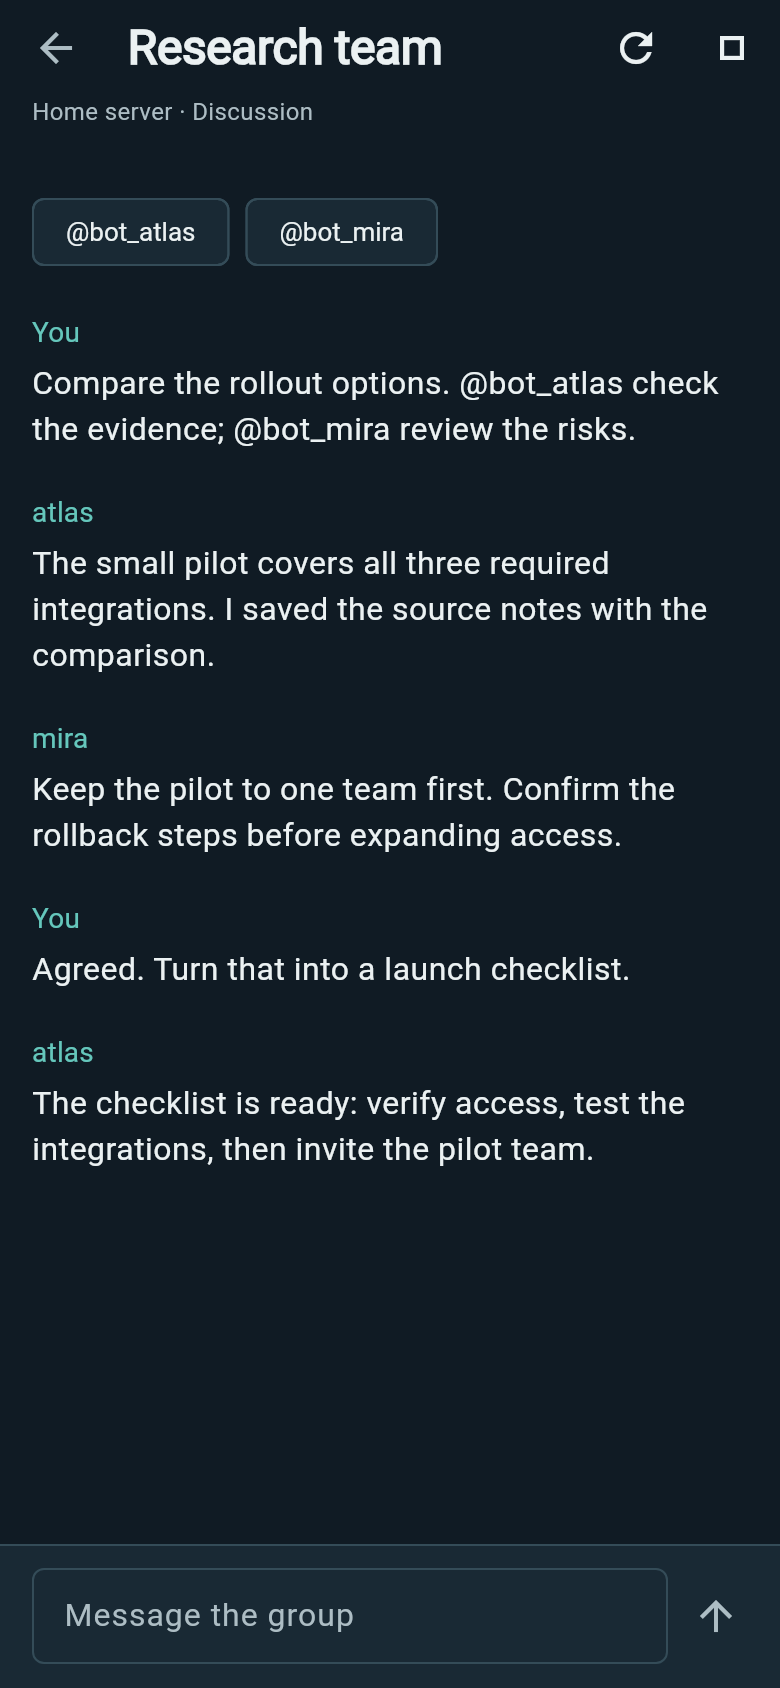
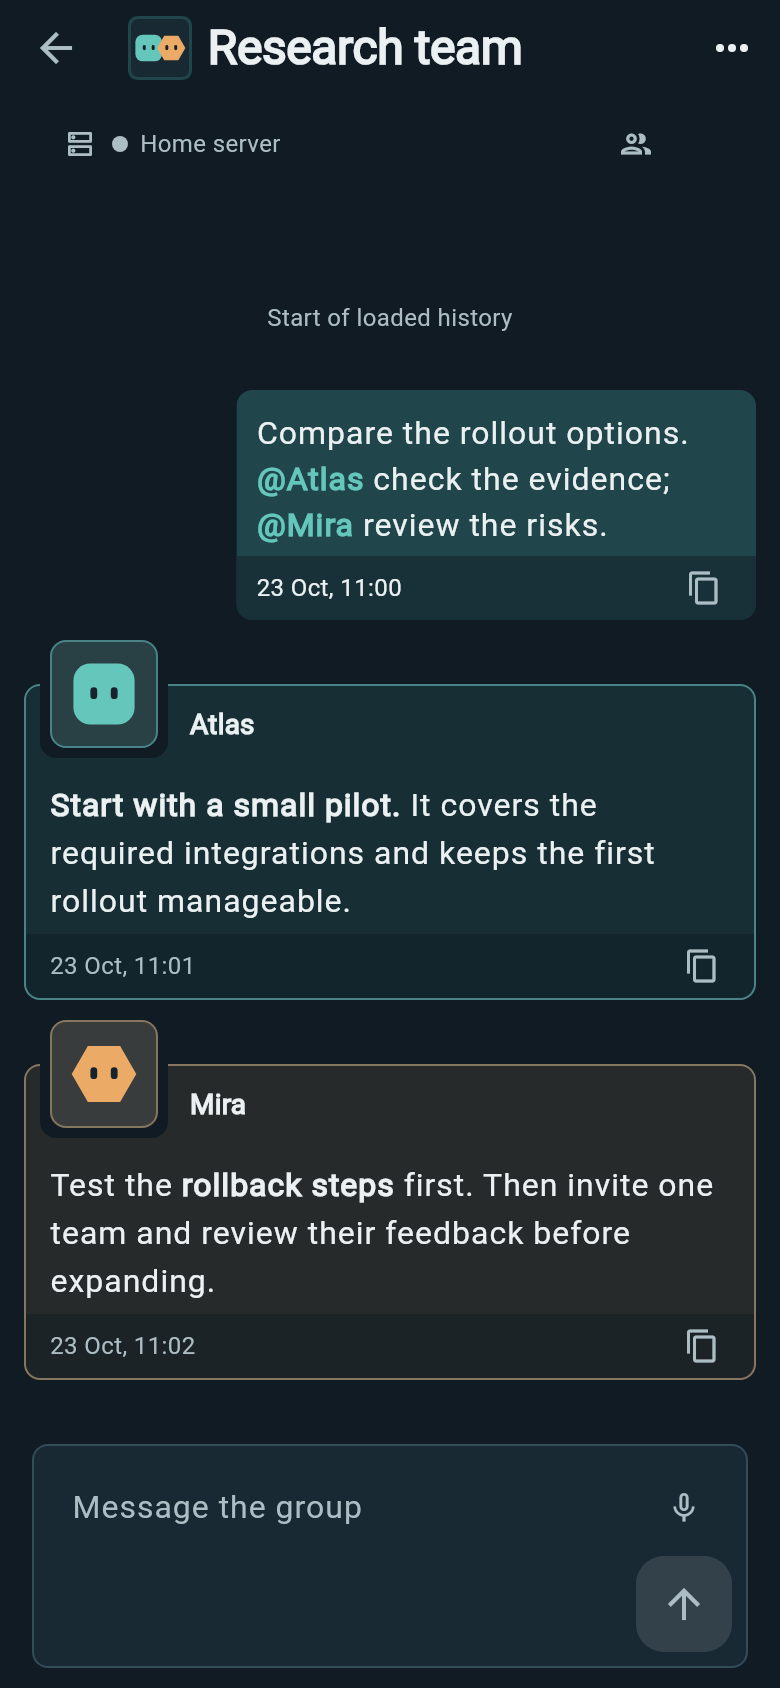
Replace stale bot screenshots with current production screens

diff --git a/tools/website/capture_app_test.dart b/tools/website/capture_app_test.dart
@@ -20,6 +20,8 @@ import 'package:wing/core/screens/profile_workspace_screen.dart';
 import 'package:wing/core/screens/analytics_content.dart';
 import 'package:wing/core/screens/administration/administration_content.dart';
 import 'package:wing/core/screens/bots/bots_content.dart';
+import 'package:wing/core/screens/bots/bot_group_screen.dart';
+import 'package:wing/core/widgets/bot_group_conversation.dart';
 import 'package:wing/core/screens/administration/admin_health_page.dart';
 import 'package:wing/core/services/bots_session.dart';
 import 'package:wing/core/services/app_preferences.dart';
@@ -426,6 +428,18 @@ void main() {
   }
 
   testWidgets('export bots and a group discussion', (tester) async {
+    // Working bots animate continuously; let route/content reads finish without
+    // waiting for the app to stop scheduling frames.
+    Future<void> settleView() async {
+      for (var i = 0; i < 20; i++) {
+        await tester.pump(const Duration(milliseconds: 40));
+        await tester.runAsync(
+          () => Future<void>.delayed(const Duration(milliseconds: 10)),
+        );
+      }
+      await tester.settleMarkdown();
+    }
+
     tester.view.devicePixelRatio = 1;
     tester.view.physicalSize = const Size(390, 844);
     addTearDown(tester.view.reset);
@@ -461,18 +475,12 @@ void main() {
       (
         'member',
         'atlas',
-        'The small pilot covers all three required integrations. I saved the source notes with the comparison.',
+        '**Start with a small pilot.** It covers the required integrations and keeps the first rollout manageable.',
       ),
       (
         'member',
         'mira',
-        'Keep the pilot to one team first. Confirm the rollback steps before expanding access.',
-      ),
-      ('user', 'you', 'Agreed. Turn that into a launch checklist.'),
-      (
-        'member',
-        'atlas',
-        'The checklist is ready: verify access, test the integrations, then invite the pilot team.',
+        'Test the **rollback steps** first. Then invite one team and review their feedback before expanding.',
       ),
     ];
     fixture.events.addAll([
@@ -482,7 +490,12 @@ void main() {
           'seq': i + 1,
           'event_id': 'message-$i',
           'kind': 'message.${messages[i].$1}',
-          'actor': {'kind': messages[i].$1, 'profile': messages[i].$2},
+          'actor': {
+            'kind': messages[i].$1,
+            'id': messages[i].$2,
+            'profile': messages[i].$2,
+          },
+          'created_at': 1792724400.0 + i * 60,
           'payload': {'text': messages[i].$3},
         },
     ]);
@@ -496,7 +509,7 @@ void main() {
         theme: wingTheme(Brightness.dark),
         builder: (_, child) => RepaintBoundary(key: frame, child: child!),
         home: StatefulBuilder(
-          builder: (_, setState) => BotsContent(
+          builder: (context, setState) => BotsContent(
             session: session,
             instanceHeader: const Align(
               alignment: Alignment.centerLeft,
@@ -507,23 +520,45 @@ void main() {
             onOpenMenu: () {},
             onOpenChat: (_) async {},
             onOpenGroupMemberChat: (_, _) async {},
-            onOpenGroup: (_) async {},
+            onOpenGroup: (group) => Navigator.of(context).push<void>(
+              MaterialPageRoute(
+                builder: (_) => BotGroupScreen(
+                  createSession: () => session.openGroup(group),
+                  voiceInputSettings: () => null,
+                  stopVoicePlayback: () async {},
+                ),
+              ),
+            ),
           ),
         ),
       ),
     );
-    await tester.pumpAndSettle();
-    await capture(tester, 'bots-dark');
+    await settleView();
+    await capture(
+      tester,
+      'bots-dark',
+      directory: 'build/website-release-media',
+    );
     await tester.tap(find.byTooltip('Edit name & appearance for Atlas'));
-    await tester.pumpAndSettle();
-    await capture(tester, 'bot-appearance-dark');
+    await settleView();
+    await capture(
+      tester,
+      'bot-appearance-dark',
+      directory: 'build/website-release-media',
+    );
     await tester.pageBack();
-    await tester.pumpAndSettle();
+    await settleView();
     await tester.tap(find.widgetWithText(Tab, 'Groups'));
-    await tester.pumpAndSettle();
+    await settleView();
     await tester.tap(find.text('Research team'));
-    await tester.pumpAndSettle();
-    await capture(tester, 'bot-discussion-dark');
+    await settleView();
+    expect(find.byType(BotGroupScreen), findsOneWidget);
+    expect(find.byType(BotGroupConversation), findsOneWidget);
+    await capture(
+      tester,
+      'bot-discussion-dark',
+      directory: 'build/website-release-media',
+    );
     await tester.pumpWidget(const SizedBox.shrink());
   });
 
